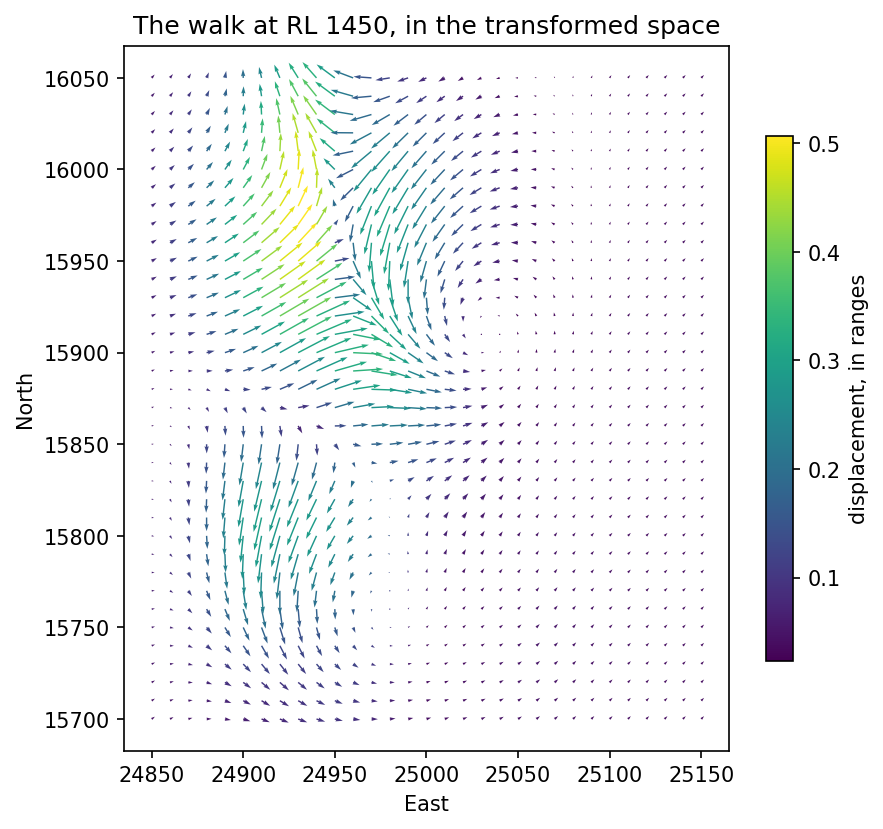
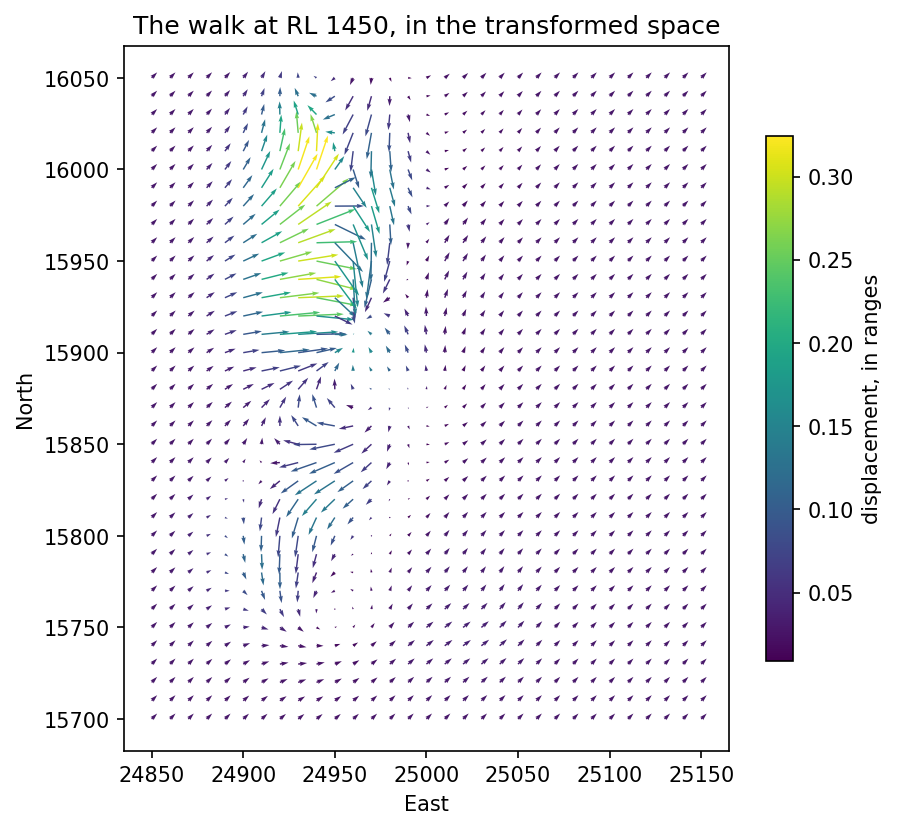
Chapter 17 trains as the user's tested notebook does
The chapter takes the training schedule tested on Colab: the training
points converted at 1 m (5,606 of them, where 2 m gave 2,811), the
stationary model 1000 full iterations at 2e-2, the deep model minibatches
of 500 rows, 20 epochs at 5e-2 and then 60 at 1e-2, the learning rate
reset in between. The block set and refine stay.

What decided the deep vein: at 2 m it came out in patches whatever the
schedule; at 1 m a coherent sheet with either reader (isotropic: in-sample
agreement 0.997, 127,690 m2; a range per direction: 0.998, 149,516 m2).
Built after the stationary model had drawn from the random stream, it
settled on a fragmented vein, so the chapter reseeds it before building
and says why, pointing to chapter 13's held-out check as the way to
choose. The stationary model ends at the higher bound and agrees with
every training point (1.000) while drawing the vein as tubes along the
holes; the ELBO and in-sample paragraphs now say what that does and does
not mean. The chapter runs in 33 minutes.

diff --git a/plugins/geoml/skills/geoml/references/manual/17-case-study-quartz-vein.md b/plugins/geoml/skills/geoml/references/manual/17-case-study-quartz-vein.md
@@ -90,7 +90,7 @@ merged = holes.merge_domains(("lito", "SIMPLE LITO"))
 holes.add_intervals("lito", merged)
 
 # two conversions from the same logs, at two spacings
-dense = holes.as_classification_input(("lito", "SIMPLE LITO"), length=2.0)
+dense = holes.as_classification_input(("lito", "SIMPLE LITO"), length=1.0)
 sparse = holes.as_classification_input(("lito", "SIMPLE LITO"), length=10.0)
 
 print(dense.tree())
@@ -136,23 +136,21 @@ single anisotropy ellipsoid can approximate but not follow.
 The model of chapter 6, in 3D. One latent field, turned into two category
 indicators by a `Linear` node, with an ellipsoid initialized from a look
 at the data and free to move during training. Both models in this chapter
-share that construction, so it is worth naming once.
+share that construction, so it is worth naming once. The stationary one
+trains on the whole dataset at every step, a thousand of them.
 
 ```python
-def implicit_model(root_node, data, iterations=120, isotropic=False):
+def implicit_model(root_node, data, isotropic=False):
     """A one-field implicit model on the given input node."""
     field = geoml.latent.BasicGP(root_node, size=1, isotropic=isotropic)
     indicators = geoml.latent.Linear(field, size=2)
 
-    model = geoml.models.VGPNetwork(
+    return geoml.models.VGPNetwork(
         data, "SIMPLE LITO",
         geoml.likelihood.CategoricalGaussianIndicator(2),
         indicators,
-        options=geoml.models.GPOptions(jitter=1e-6, verbose=False))
-
-    model.set_learning_rate(2e-2)
-    model.train_full(max_iter=iterations)
-    return model
+        options=geoml.models.GPOptions(jitter=1e-6, training_batch_size=500,
+                                       verbose=False))
 
 
 flat_input = geoml.latent.BasicInput(
@@ -162,6 +160,8 @@ flat_input = geoml.latent.BasicInput(
     center=True)
 
 flat_model = implicit_model(flat_input, dense)
+flat_model.set_learning_rate(2e-2)
+flat_model.train_full(max_iter=1000)
 ```
 
 ## 17.4 The deep model: moving the ground before modelling it
@@ -176,7 +176,20 @@ starts from; the walk bends the space from there, and a range per
 direction in the field reading it would be a second way to say the same
 thing, which training resolves into a stretched, overconfident field.
 
+The deep model trains differently. It has more local optima than the
+stationary one, so it trains on minibatches of 500 rows (chapter 11's
+`train_svi`), whose noise helps it out of a poor start: twenty epochs at a
+high learning rate to find the shape, then sixty at a lower one to settle
+it. `set_learning_rate` restarts the optimizer, which is the point of
+calling it between the two. Where it starts still matters: built after the
+stationary model has drawn from the random stream, it settled on a
+fragmented vein, so it gets the chapter's seed again, which the figures
+below were drawn from. Trying a few seeds and keeping the one with the
+best held-out score (chapter 13) is the honest way to choose.
+
 ```python
+geoml.set_seed(1234)
+
 deep_input = geoml.latent.BasicInput(
     inducing_points=sparse,
     transform=geoml.transform.Anisotropy3D(
@@ -187,11 +200,15 @@ displacement = geoml.latent.BasicGP(deep_input, size=3)
 walked = geoml.latent.GPWalk(displacement, n_steps=5)
 
 deep_model = implicit_model(walked, dense, isotropic=True)
+deep_model.set_learning_rate(5e-2)
+deep_model.train_svi(20)
+deep_model.set_learning_rate(1e-2)
+deep_model.train_svi(60)
 
 figure, axes = plt.subplots(figsize=(7, 4.2))
-axes.plot(flat_model.training_log, label="stationary")
-axes.plot(deep_model.training_log, label="deep (GPWalk)")
-axes.set_xlabel("iteration")
+axes.plot(flat_model.training_log, label="stationary (iterations)")
+axes.plot(deep_model.training_log, label="deep (GPWalk, minibatches)")
+axes.set_xlabel("step")
 axes.set_ylabel("ELBO")
 axes.legend()
 
@@ -200,9 +217,13 @@ figure.savefig("figures/17-elbo.png", dpi=150, bbox_inches="tight")
 
 ![What the walked input buys, in ELBO](https://italo-goncalves.github.io/geoML/_images/17-elbo.png)
 
-The deep model reaches a higher ELBO on the same data, so it fits a shape
-the ellipsoid could not. Whether that is skill or memory is precisely the
-question chapter 13 exists to answer, and the honest check is below.
+The stationary model ends at the higher bound, and that is not the verdict
+it looks like. A bound rewards fitting the training points, and a thousand
+full steps on one ellipsoid buy that hole by hole; the deep model's bound
+is a minibatch estimate, noisier and lower, and it spends part of what it
+has on a vector field. Which vein is the better one is a question about the
+ground between the holes, which neither bound sees -- the surfaces below
+are the first look at it, and chapter 13's held-out check the honest one.
 
 ## 17.5 The surfaces
 
@@ -365,12 +386,14 @@ for name, predicted in [("stationary", flat_predicted),
 ```
 
 These are in-sample numbers, printed with that label because the point of
-chapter 13 is that in-sample numbers flatter every model and flatter the
-flexible one most. A deep model has more ways to memorize 53 holes than a
-stationary one, so the honest comparison runs `cross_validate` with the
-folds cut on `HOLEID`, which every conversion in chapter 9 carried as
-metadata precisely for this. At the iteration counts this chapter runs at,
-the numbers above illustrate the machinery rather than settle the geology.
+chapter 13 is that in-sample numbers flatter every model. Here they flatter
+the stationary one: it agrees with every training point and draws the vein
+as tubes along the holes, where the deep model gives up a few points and
+draws one sheet between them. A model can memorize 53 holes in more than
+one way, so the honest comparison runs `cross_validate` with the folds cut
+on `HOLEID`, which every conversion in chapter 9 carried as metadata
+precisely for this. The numbers above illustrate the machinery rather than
+settle the geology.
 
 > **In the code.** `geoml.latent.GPWalk` is the SDE node, and
 > `geoml.transform.Anisotropy3D` the ellipsoid it takes the burden off.

diff --git a/docs/manual/17-case-study-quartz-vein.md b/docs/manual/17-case-study-quartz-vein.md
@@ -90,7 +90,7 @@ merged = holes.merge_domains(("lito", "SIMPLE LITO"))
 holes.add_intervals("lito", merged)
 
 # two conversions from the same logs, at two spacings
-dense = holes.as_classification_input(("lito", "SIMPLE LITO"), length=2.0)
+dense = holes.as_classification_input(("lito", "SIMPLE LITO"), length=1.0)
 sparse = holes.as_classification_input(("lito", "SIMPLE LITO"), length=10.0)
 
 print(dense.tree())
@@ -136,23 +136,21 @@ single anisotropy ellipsoid can approximate but not follow.
 The model of chapter 6, in 3D. One latent field, turned into two category
 indicators by a `Linear` node, with an ellipsoid initialized from a look
 at the data and free to move during training. Both models in this chapter
-share that construction, so it is worth naming once.
+share that construction, so it is worth naming once. The stationary one
+trains on the whole dataset at every step, a thousand of them.
 
 ```python
-def implicit_model(root_node, data, iterations=120, isotropic=False):
+def implicit_model(root_node, data, isotropic=False):
     """A one-field implicit model on the given input node."""
     field = geoml.latent.BasicGP(root_node, size=1, isotropic=isotropic)
     indicators = geoml.latent.Linear(field, size=2)
 
-    model = geoml.models.VGPNetwork(
+    return geoml.models.VGPNetwork(
         data, "SIMPLE LITO",
         geoml.likelihood.CategoricalGaussianIndicator(2),
         indicators,
-        options=geoml.models.GPOptions(jitter=1e-6, verbose=False))
-
-    model.set_learning_rate(2e-2)
-    model.train_full(max_iter=iterations)
-    return model
+        options=geoml.models.GPOptions(jitter=1e-6, training_batch_size=500,
+                                       verbose=False))
 
 
 flat_input = geoml.latent.BasicInput(
@@ -162,6 +160,8 @@ flat_input = geoml.latent.BasicInput(
     center=True)
 
 flat_model = implicit_model(flat_input, dense)
+flat_model.set_learning_rate(2e-2)
+flat_model.train_full(max_iter=1000)
 ```
 
 ## 17.4 The deep model: moving the ground before modelling it
@@ -176,7 +176,20 @@ starts from; the walk bends the space from there, and a range per
 direction in the field reading it would be a second way to say the same
 thing, which training resolves into a stretched, overconfident field.
 
+The deep model trains differently. It has more local optima than the
+stationary one, so it trains on minibatches of 500 rows (chapter 11's
+`train_svi`), whose noise helps it out of a poor start: twenty epochs at a
+high learning rate to find the shape, then sixty at a lower one to settle
+it. `set_learning_rate` restarts the optimizer, which is the point of
+calling it between the two. Where it starts still matters: built after the
+stationary model has drawn from the random stream, it settled on a
+fragmented vein, so it gets the chapter's seed again, which the figures
+below were drawn from. Trying a few seeds and keeping the one with the
+best held-out score (chapter 13) is the honest way to choose.
+
 ```python
+geoml.set_seed(1234)
+
 deep_input = geoml.latent.BasicInput(
     inducing_points=sparse,
     transform=geoml.transform.Anisotropy3D(
@@ -187,11 +200,15 @@ displacement = geoml.latent.BasicGP(deep_input, size=3)
 walked = geoml.latent.GPWalk(displacement, n_steps=5)
 
 deep_model = implicit_model(walked, dense, isotropic=True)
+deep_model.set_learning_rate(5e-2)
+deep_model.train_svi(20)
+deep_model.set_learning_rate(1e-2)
+deep_model.train_svi(60)
 
 figure, axes = plt.subplots(figsize=(7, 4.2))
-axes.plot(flat_model.training_log, label="stationary")
-axes.plot(deep_model.training_log, label="deep (GPWalk)")
-axes.set_xlabel("iteration")
+axes.plot(flat_model.training_log, label="stationary (iterations)")
+axes.plot(deep_model.training_log, label="deep (GPWalk, minibatches)")
+axes.set_xlabel("step")
 axes.set_ylabel("ELBO")
 axes.legend()
 
@@ -200,9 +217,13 @@ figure.savefig("figures/17-elbo.png", dpi=150, bbox_inches="tight")
 
 ![What the walked input buys, in ELBO](figures/17-elbo.png)
 
-The deep model reaches a higher ELBO on the same data, so it fits a shape
-the ellipsoid could not. Whether that is skill or memory is precisely the
-question chapter 13 exists to answer, and the honest check is below.
+The stationary model ends at the higher bound, and that is not the verdict
+it looks like. A bound rewards fitting the training points, and a thousand
+full steps on one ellipsoid buy that hole by hole; the deep model's bound
+is a minibatch estimate, noisier and lower, and it spends part of what it
+has on a vector field. Which vein is the better one is a question about the
+ground between the holes, which neither bound sees -- the surfaces below
+are the first look at it, and chapter 13's held-out check the honest one.
 
 ## 17.5 The surfaces
 
@@ -365,12 +386,14 @@ for name, predicted in [("stationary", flat_predicted),
 ```
 
 These are in-sample numbers, printed with that label because the point of
-chapter 13 is that in-sample numbers flatter every model and flatter the
-flexible one most. A deep model has more ways to memorize 53 holes than a
-stationary one, so the honest comparison runs `cross_validate` with the
-folds cut on `HOLEID`, which every conversion in chapter 9 carried as
-metadata precisely for this. At the iteration counts this chapter runs at,
-the numbers above illustrate the machinery rather than settle the geology.
+chapter 13 is that in-sample numbers flatter every model. Here they flatter
+the stationary one: it agrees with every training point and draws the vein
+as tubes along the holes, where the deep model gives up a few points and
+draws one sheet between them. A model can memorize 53 holes in more than
+one way, so the honest comparison runs `cross_validate` with the folds cut
+on `HOLEID`, which every conversion in chapter 9 carried as metadata
+precisely for this. The numbers above illustrate the machinery rather than
+settle the geology.
 
 > **In the code.** `geoml.latent.GPWalk` is the SDE node, and
 > `geoml.transform.Anisotropy3D` the ellipsoid it takes the burden off.

diff --git a/docs/expected-kernel.md b/docs/expected-kernel.md
@@ -219,7 +219,18 @@ walk that folds the space puts sharper features on the grid than a
 stationary field does. The chapter now contours a `BlockSet3D` refined at
 the contact instead -- 20 m blocks cut to 2.5 m where the vein's boundary
 runs, 63,193 blocks for the deep model -- and draws the smooth surface
-(158,455 m²) in less time than the 5 m grid took.
+(158,455 m²) in less time than the 5 m grid took. The chapter then took
+the user's tested training schedule (2026-10-09): 1 m spacing for the
+training points, the stationary model 1000 full iterations at 2e-2, the
+deep model minibatches of 500, 20 epochs at 5e-2 and 60 at 1e-2. At 2 m
+the deep vein came out in patches, at 1 m a coherent sheet with either
+reader (isotropic: agreement 0.997, 127,690 m²; a range per direction:
+0.998, 149,516 m²) -- but only from the chapter's seed: built after the
+stationary model had drawn from the stream, it settled on a fragmented
+vein, so the chapter reseeds it and says why. The stationary model ends at
+the higher bound and the higher in-sample agreement (1.000 against 0.997)
+and draws the vein as tubes along the holes; the chapter runs in 33
+minutes.
 
 **Fixed draws of the field, walked exactly, were measured and dropped.**
 32 or 64 draws scored like the linearized walk on the folded section
